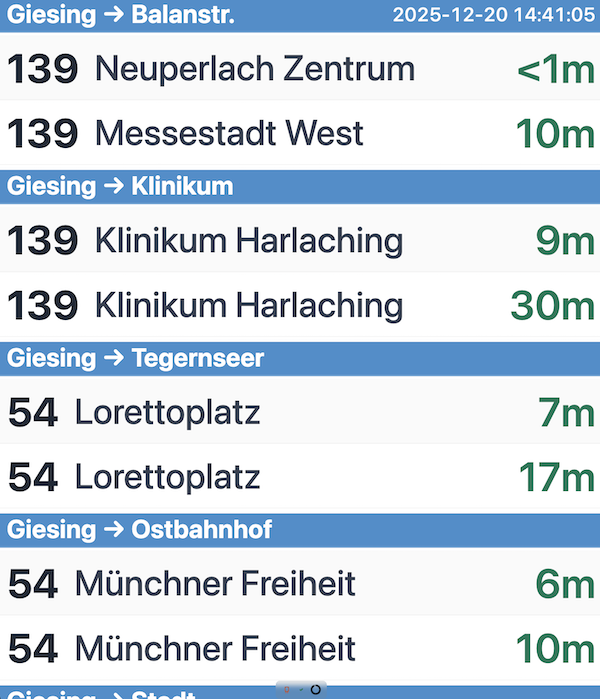
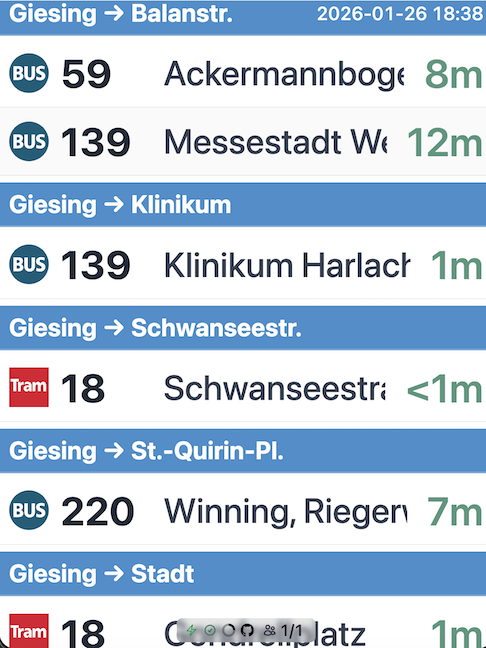
v0.1.0

diff --git a/CHANGELOG.md b/CHANGELOG.md
@@ -1,5 +1,38 @@
 # Changelog
 
+## [0.1.0]
+
+### Highlights
+
+- **Three “flavors”**:
+  - **PyView**: server-side polling + API load optimizations
+  - **SPA**: Svelte single-page app with client-side polling
+  - **Inky**: Pimoroni Inky e-ink display (Raspberry Pi) implementation
+
+### Features
+
+- **SPA (Svelte)**
+  - **Route switching + per-route title**
+  - **Config modal with copy/paste** (plus better help text)
+  - **“On the run” mode** and assorted UI refinements (scrolling, overlap fixes, older browser tweaks)
+- **PyView (server-rendered)**
+  - **Staleness display** (grey out stale departures; feature parity with SPA)
+  - **Improved stop point matching**
+  - **Config key rename**: `update_location_interval_seconds` → `refresh_interval_seconds`
+  - **Better status messaging** (e.g. no nearby stations) and reduced logging noise
+- **Inky (e-ink)**
+  - **New `inky/` subproject** with dedicated config, renderer, and tests
+  - **Partial updates, rotation/orientation support, font scaling/spacing improvements**
+  - **Hardware-aware palette + native colors** (and dithering disabled by default)
+  - **Service + deployment scripts** for Raspberry Pi (setup, install, logs, restart)
+- **VBB**
+  - **Initial VBB adapter work** plus “degraded / not implemented yet” UI messaging
+
+### Maintenance
+
+- **Python**: move to **Python 3.13** and dependency/packaging updates (incl. better Raspberry Pi install story)
+- **CI / build**: improved workflows, added package locks & caching, published SPA, and fixed Docker images
+
 ## [0.0.12]
 
 ### Features

diff --git a/README.md b/README.md
@@ -1,6 +1,8 @@
-# My MVG Departures - a Customizable Departures Dashboard for Munich
+# My MVG Departures - a set of Customizable Departures Dashboards for public Transport
 
 A server-side rendered live dashboard for Munich public transport (MVG) departures. Featuring a responsive and live web UI. Usable on various screen sizes.
+
+Alternative versions: [browser-based (single-page-app)](https://d-led.github.io/my-mvg-departures/) and an [E-Ink version](./inky/).
 
 ![Giesing departures screenshot](./docs/img/giesing-screenshot.png)
 
@@ -18,6 +20,8 @@ A server-side rendered live dashboard for Munich public transport (MVG) departur
 > **⚠ Important Disclaimer**: This dashboard is provided as a visual aid and should not be considered a definitive reference. Omissions, technical and logical errors, upstream MVG API dependencies, or incorrect configuration may result in incomplete or inaccurate dashboards. The discrepancy between real departures and planned departures may also be significant. Always verify critical departure information through official MVG channels.
 
 ![DIY dashboard](./docs/img/diy_setup.jpg)
+
+![E-Ink departures monitor](./docs/img/pimoroni-inky-impression-version.jpg)
 
 ## Why This Dashboard?
 
